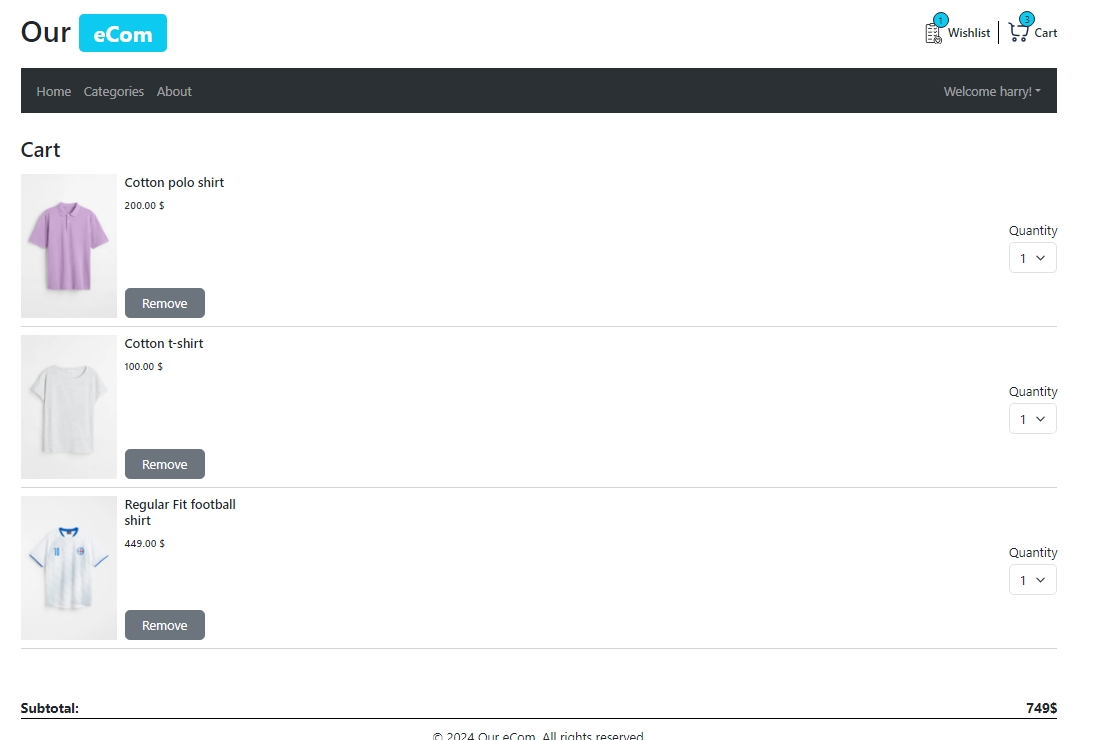
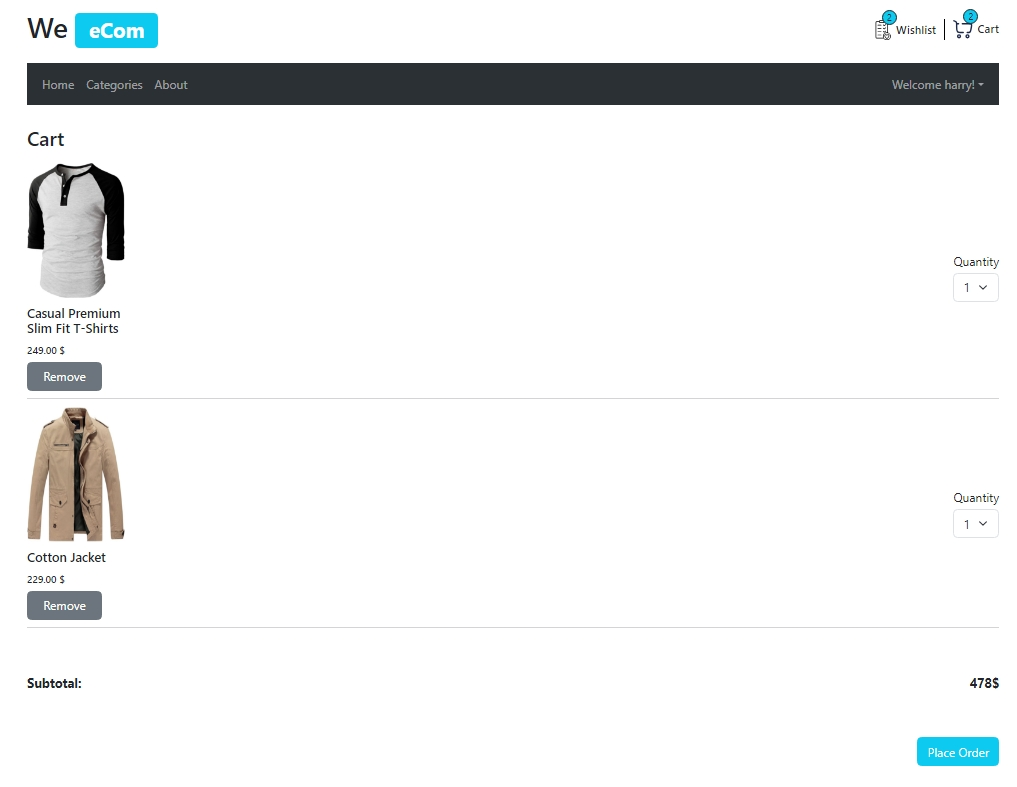
`Update README.md and various components with minor changes`

diff --git a/src/Components/Common/Header/Header.tsx b/src/Components/Common/Header/Header.tsx
@@ -21,7 +21,7 @@ function Header() {
     <header className="header">
       <div className={headerContainer}>
         <h1 className={headerLogo}>
-          <span>Our</span> <Badge bg="info">eCom</Badge>
+          <span>We</span> <Badge bg="info">eCom</Badge>
         </h1>
         <HeaderRightBar />
       </div>

diff --git a/src/Components/Common/Footer/Footer.tsx b/src/Components/Common/Footer/Footer.tsx
@@ -3,7 +3,7 @@ import styles from "./styles.module.css";
 const { footerContainer } = styles;
 function Footer() {
   return (
-    <div className={footerContainer}>© 2024 Our eCom. All rights reserved.</div>
+    <div className={footerContainer}>© 2024 We eCom. All rights reserved.</div>
   );
 }
 

diff --git a/README.md b/README.md
@@ -2,9 +2,10 @@
 
 This project is a e-commerce application built with React and TypeScript. It includes features such as product listing, product details, cart management, wishlist management, placing orders and user authentication.
 
-![Categories Page](./src/assets/catalogue/CATEGORIES.jpeg)
-![Products Page](./src/assets/catalogue/PRODUCTS.jpeg)
-![Cart Page](./src/assets/catalogue/CART.jpeg)
+![Main Page](./src/assets/catalogue/Index.jpeg) <br>
+![Categories Page](./src/assets/catalogue/CATEGORIES.jpeg) <br>
+![Products Page](./src/assets/catalogue/PRODUCTS.jpeg) <br>
+![Cart Page](./src/assets/catalogue/CART.jpeg) <br>
 
 I have included many modern js packeges in this project:
 
@@ -14,6 +15,7 @@ I have included many modern js packeges in this project:
 - **React-hook-form** and **Zod** for validating form
 - **Redux ToolKit** for managing the app state
 - **React Router** for managing navigation
+- **Swiper** for making carousels
 - **Json-server** for making a fake API
 
 You watch a live version of this project by clicking [here](https://m-mohammad25.github.io/ECommerce-App-with-React-TypeScript/)
